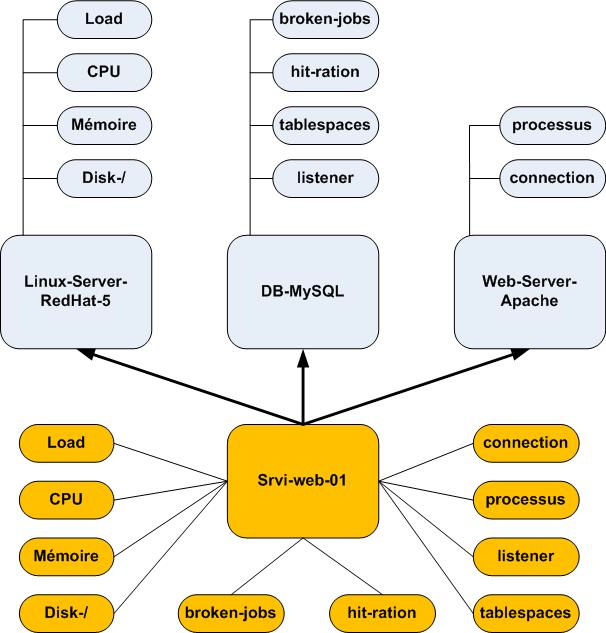
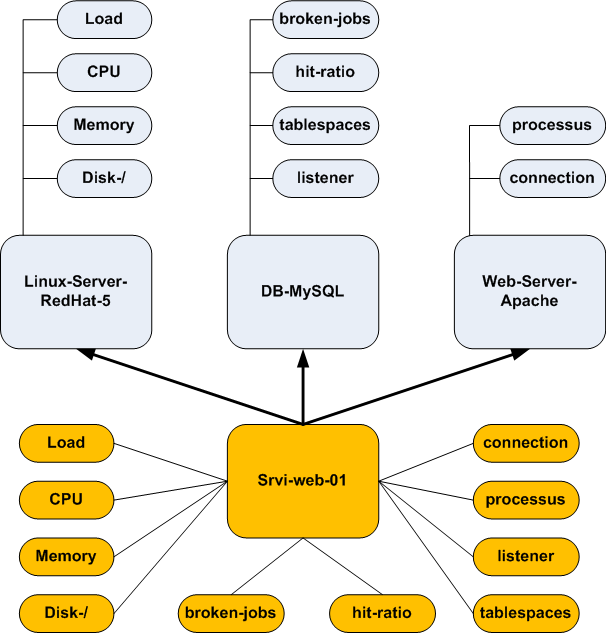
correct typo

diff --git a/doc/fr/guide_utilisateur/configuration/09models.rst b/doc/fr/guide_utilisateur/configuration/09models.rst
@@ -68,6 +68,9 @@ Pour ajouter un modèle d'hôtes :
 #. Dans le menu de gauche, cliquez sur **Modèles**
 #. Cliquez sur **Ajouter**
 
+.. note::
+    Se rapporter au chapitre de configuration des :ref:`hôtes<hostconfiguration>` pour configurer un modèle car le formulaire est identique.
+
 ***********************
 Les modèles de services
 ***********************
@@ -89,6 +92,9 @@ Pour ajouter un modèle de services :
 #. Dans le menu de gauche, cliquez sur **Modèles**
 #. Cliquez sur **Ajouter**
 
+.. note::
+    Se rapporter au chapitre de configuration des :ref:`services<serviceconfiguration>` pour configurer un modèle car le formulaire est identique.
+
 ********************
 Les bonnes pratiques
 ********************
@@ -107,19 +113,15 @@ Exemple : Je créé l'hôte srvi-web-01 selon le modèle ci-dessous :
 .. image :: /images/guide_utilisateur/configuration/09hostexemple.png
    :align: center
 
-L'hôte srvi-web-01 aura automatiquement les services suivants générés :
+L'hôte srvi-web-01 possèdera automatiquement les services suivants :
 
-* Le service Load permettra de vérifier la charge du serveur
-* Le service CPU permettra de vérifier la consommation CPU de la machine
-* Le service Mémoire permettra de vérifier la consommation de la mémoire vive
-* Le service Disk-/ permettra de vérifier l'état de la partition /
-* Le service broken-jobs permet de vérifier les jobs en panne
-* Le service hit-ration permet de vérifier le ratio de hits
-* Les services tablespaces, listener, processus et connection permettent de vérifier l'état et les performances du serveur de base de données
+* Load, CPU, Memoiry, disk-/ à partir des modèles de serices issus du modèle d'hôte "Linux-Server-RedHat-5"
+* broken-jobs, hit-ratio, tablespaces, listener à partir des modèles de serices issus du modèle d'hôte "DB-MySQL"
+* processus et connection à partir des modèles de serices issus du modèle d'hôte "Web-Server-Apache"
 
 Lorsque les services d'un hôte sont générés à partir des modèles d'hôtes, il est possible que certains services générés ne soient plus ou pas vérifiés par l'outil de supervision.
 Dans ce cas, il est nécessaire de désactiver les services inutilisés (et non de les supprimer).
-En cas de suppression des services, la regénération des services de l'hôte à partir des modèles d'hôtes recréera les services supprimés.
+En cas de suppression des services, la regénération des services de l'hôte à partir des modèles d'hôtes va recréer les services supprimés.
 
 Configuration
 =============
@@ -130,7 +132,7 @@ La liaison des modèles de services avec les modèles d'hôtes a lieu dans l'ong
 Les modèles de contacts
 ***********************
 
-Un contact ou un modèle de contact peut hériter d'un seul modèle de contacts.
+Un contact ou un modèle de contact peut hériter d'un seul modèle de contact.
 
 .. image :: /images/guide_utilisateur/configuration/09contactmodel.png
    :align: center
@@ -145,4 +147,4 @@ Pour ajouter un modèle de contacts :
 #. Cliquez sur **Ajouter**
 
 .. note::
-    Les modèles de contacts sont utilisés pour l'import automatique de profils via un annuaire :ref:`LDAP  <section-ldap_configuration>`.
+     Se rapporter au chapitre de configuration des :ref:`contacts<contactconfiguration>`. De plus, les modèles de contacts sont utilisés pour l'import automatique de profils via un annuaire :ref:`LDAP<ldapconfiguration>`.

diff --git a/doc/fr/guide_exploitation/02e.rst b/doc/fr/guide_exploitation/02e.rst
@@ -104,6 +104,8 @@ Vous pouvez modifier une couleur en saisissant le code HTML de celle-ci ou en cl
 .. image :: /images/guide_exploitation/ecolorspopup.png
    :align: center
 
+.. _ldapconfiguration:
+
 ****
 LDAP
 ****

diff --git a/doc/fr/guide_utilisateur/configuration/03services.rst b/doc/fr/guide_utilisateur/configuration/03services.rst
@@ -1,3 +1,5 @@
+.. _serviceconfiguration:
+
 ============
 Les services
 ============

diff --git a/doc/fr/guide_utilisateur/configuration/06contact.rst b/doc/fr/guide_utilisateur/configuration/06contact.rst
@@ -1,3 +1,5 @@
+.. _contactconfiguration:
+
 ============
 Les contacts
 ============

diff --git a/doc/fr/guide_utilisateur/configuration/02hosts.rst b/doc/fr/guide_utilisateur/configuration/02hosts.rst
@@ -1,3 +1,5 @@
+.. _hostconfiguration:
+
 =========
 Les hôtes
 =========
